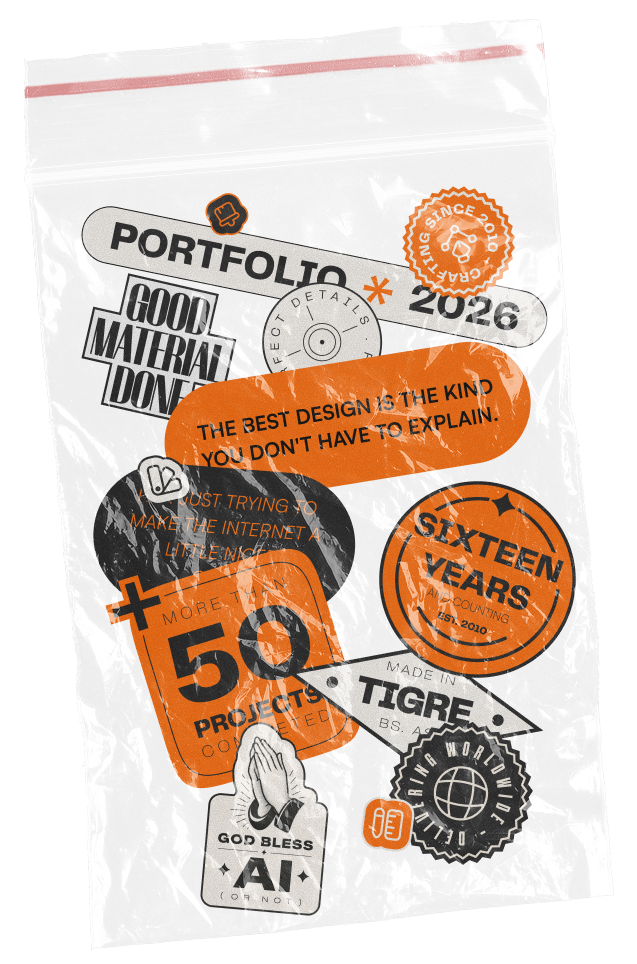
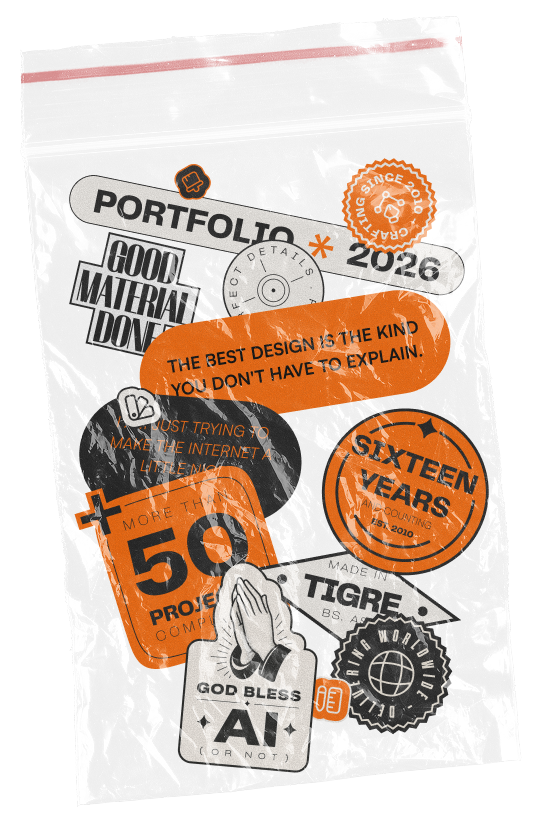
mobile update

Changed region(s): [[0.1185, 0.1832, 0.9185, 0.9463], [0.8296, 0.3053, 0.8593, 0.3358]]

diff --git a/index.html b/index.html
@@ -162,7 +162,7 @@ document.querySelector('meta[name="viewport"]').setAttribute('content','width=14
 .tt-col-md-6.d-flex-center { overflow: visible !important; }
 .desktop-testi-tag { position: absolute; bottom: -50px; left: 0; right: 0; width: auto; display: flex; flex-direction: column; align-items: center; transform: none; z-index: 10; }
 .desktop-testi-tag img { display: block; width: auto; max-width: none; height: 31px; margin-bottom: 0; transition: transform 0.7s cubic-bezier(0.25,0.46,0.45,0.94); }
-@media (max-width: 768px) { .desktop-testi-wrap { display: none !important; } #mob-testi-tag { width: auto !important; height: auto !important; transform-origin: center center !important; } }
+@media (max-width: 768px) { .desktop-testi-wrap { display: none !important; } }
 @media (min-width: 769px) { .mob-somekind-phrase { display: none !important; } }
 @media (min-width: 2560px) {
     .home-title { transform:none; }
@@ -263,8 +263,9 @@ document.querySelector('meta[name="viewport"]').setAttribute('content','width=14
     .mob-phrase-word.in-view { transform: translateY(0); }
     .mob-phrase-tags-overlay { position: absolute; top: 50%; left: 50%; transform: translate(-50%, -50%); width: 92vw; max-width: 340px; pointer-events: none; z-index: 2; }
     .mob-tag-complete { display: block; width: 100%; height: auto; opacity: 0; will-change: opacity; transition: opacity 1.2s cubic-bezier(0.25,0.46,0.45,0.94); transform: translateZ(0); -webkit-transform: translateZ(0); }
-    #mob-testi-tag { width: auto !important; height: auto !important; }
     .mob-tag-complete.in-view { opacity: 1; }
+    .mob-pill { display: block; height: 28px; width: auto; margin-bottom: 16px; opacity: 0; transform: translateY(16px); transition: opacity 1.1s cubic-bezier(0.25,0.46,0.45,0.94), transform 1.1s cubic-bezier(0.25,0.46,0.45,0.94); }
+    .mob-pill.in-view { opacity: 1; transform: translateY(0); }
     .services-btns-row { display: none !important; }
     #services .tt-row:first-of-type { display: none !important; }
     .words-container { overflow: visible !important; }
@@ -591,10 +592,10 @@ document.addEventListener('click', function(e) {
                 </div>
                 <div class="tt-section-inner tt-wrap">
                     <div class="mob-works-phrase mob-ok" style="display:none;position:relative;">
+                        <img src="./assets/img/a-few-of.svg" alt="A Few of Them" class="mob-pill" id="mob-works-pill" />
                         <div class="mob-phrase-clip"><img src="./assets/img/work-featu.svg" class="mob-phrase-word" alt="" /></div>
                         <div class="mob-phrase-clip" id="mob-works-red-clip"><img src="./assets/img/work-red.svg" class="mob-phrase-word" alt="" /></div>
                         <div class="mob-phrase-clip"><img src="./assets/img/work-work.svg" class="mob-phrase-word" alt="" /></div>
-                        <img src="./assets/img/work-tag-complete.svg" id="mob-works-tag" class="mob-tag-complete" alt="" style="position:absolute;left:50%;transform:translateX(-50%);width:auto;height:auto;pointer-events:none;z-index:2;" />
                     </div>
                     <div class="gallery">
                         <div class="card" id="frog-bazar"><a href="https://www.behance.net/gallery/157959551/Frog-Bazar-2023" target="_blank" class="stamp" data-vt-mode="fade"><img src="./assets/img/stamp/project-be.svg" alt="" /><img src="./assets/img/stamp/project-be-a.svg" class="join" alt="" /><img src="./assets/img/stamp/project-be-b.svg" class="inside" alt="" /></a><a class="media" href="work/frogbazar/" alt="frog-bazar" data-vt-mode="slide"><img class="img-base" src="./assets/home/frogbazar-b.jpg" alt="Frog Bazar" /><img class="img-hover" src="./assets/home/frogbazar.jpg" alt="" aria-hidden="true" /></a><div class="meta"><h3>Frog Bazar</h3><p>branding + website + photo</p><p>(001)</p><span class="meta-name">Frog Bazar</span><span class="meta-num">(001)</span></div></div>
@@ -696,7 +697,7 @@ document.addEventListener('click', function(e) {
                 </div>
             </div>
             <div class="mob-stickers-wrap" style="display:flex;justify-content:center;padding:40px 0;">
-                <img src="./assets/img/mob-stickers.png" alt="" style="display:block;width:340px;max-width:92vw;height:auto;" />
+                <img id="mob-stickers-img" src="./assets/img/mob-stickers.png" alt="" style="display:block;width:360px;max-width:92vw;height:auto;" />
             </div>
 
         <div id="extra-section" class="tt-section mob-no" style="position:relative;z-index:2;background:#F8F8F8;padding-top:50px !important;padding-bottom:150px !important;margin-top:0;">
@@ -734,10 +735,10 @@ document.addEventListener('click', function(e) {
                             </div>
                         </div>
                         <div class="mob-somekind-phrase" style="position:relative;display:flex;flex-direction:column;align-items:center;width:100%;gap:8px;margin-bottom:8px;">
+                            <img src="./assets/img/some-kind.svg" alt="Some Kind Words" class="mob-pill" id="mob-testi-pill" />
                             <div class="mob-phrase-clip"><img src="./assets/img/testimonials-they.svg" class="mob-phrase-word" alt="" /></div>
                             <div class="mob-phrase-clip"><img src="./assets/img/testimonials-said.svg" class="mob-phrase-word" alt="" /></div>
                             <div class="mob-phrase-clip"><img src="./assets/img/testimonials-it.svg" class="mob-phrase-word" alt="" /></div>
-                            <div style="position:absolute;top:50%;left:50%;transform:translate(-50%,-50%);pointer-events:none;z-index:2;"><img src="./assets/img/testimonials-tag-complete.svg" id="mob-testi-tag" class="mob-tag-complete" alt="" style="width:auto;height:auto;" /></div>
                         </div>
                         <div class="words-container"><div class="carousel" role="region"><div class="stage" id="stage">
                             <article class="verbatim prev" tabindex="0"><img src="./assets/img/word2.jpg" alt="" /><div><p><span>Dana Johonson</span> (Dotted 8)</p><p>"As a US-based agency, it can be tricky to find reliable international talent that aligns with our time constraints and quality expectations. Fede has been an incredible resource and a valued member of our team for many years!"</p></div></article>
@@ -1333,6 +1334,12 @@ window.addEventListener('load', () => {
             const isRetina = window.matchMedia('(min-resolution: 2dppx)').matches;
             if (deskFeatured) { gsap.set(deskFeatured, { y: '160%' }); gsap.to(deskFeatured, { y: 0, ease: 'power3.out', duration: 1.4, scrollTrigger: { trigger: '#works', start: 'top 85%', toggleActions: 'play none none none' } }); }
             if (deskWork) { gsap.set(deskWork, { y: '160%' }); gsap.to(deskWork, { y: 0, ease: 'power3.out', duration: 1.4, delay: 0.08, scrollTrigger: { trigger: '#works', start: 'top 85%', toggleActions: 'play none none none' } }); }
+            if (window.innerWidth <= 768) {
+                var mobStickersImg = document.getElementById('mob-stickers-img');
+                if (mobStickersImg) {
+                    gsap.fromTo(mobStickersImg, { y: -12, rotation: -2 }, { y: 12, rotation: 2, ease: 'none', scrollTrigger: { trigger: mobStickersImg, start: 'top bottom', end: 'bottom top', scrub: 1.2 } });
+                }
+            }
             if (isRetina) {
                 var extraSec = document.getElementById('extra-section');
                 if (extraSec) { extraSec.style.setProperty('padding-top', '0px', 'important'); extraSec.style.setProperty('margin-top', '-75px', 'important'); }
@@ -1627,19 +1634,12 @@ if (window.innerWidth <= 768) {
     if (serviceItems.length) { var servicesObserver = new IntersectionObserver(function(entries) { entries.forEach(function(entry) { if (entry.isIntersecting) { var idx = Array.from(serviceItems).indexOf(entry.target); setTimeout(function() { entry.target.classList.add('in-view'); }, idx * 80); servicesObserver.unobserve(entry.target); } }); }, { threshold: 0.1 }); serviceItems.forEach(function(item) { servicesObserver.observe(item); }); }
     var connectBtn = document.querySelector('.services-btns-connect');
     if (connectBtn) { new IntersectionObserver(function(entries) { entries.forEach(function(entry) { if (entry.isIntersecting) { entry.target.classList.add('in-view'); } }); }, { threshold: 0.3 }).observe(connectBtn); }
-    var testiTag = document.getElementById('mob-testi-tag');
-    if (testiTag) { var testiTagObserver = new IntersectionObserver(function(entries) { entries.forEach(function(entry) { if (entry.isIntersecting) { testiTag.classList.add('in-view'); testiTagObserver.disconnect(); } }); }, { threshold: 0.3 }); testiTagObserver.observe(testiTag); window.addEventListener('scroll', function() { var rect = testiTag.getBoundingClientRect(); testiTag.style.transform = 'scale(1.2) translateY(' + ((rect.top + rect.height / 2 - window.innerHeight / 2) * 0.06) + 'px)'; }, { passive: true }); }
     var someKindClips = document.querySelectorAll('.mob-somekind-phrase .mob-phrase-clip');
     if (someKindClips.length) { var someKindObserver = new IntersectionObserver(function(entries) { entries.forEach(function(entry) { if (entry.isIntersecting) { var word = entry.target.querySelector('.mob-phrase-word'); if (word) word.classList.add('in-view'); someKindObserver.unobserve(entry.target); } }); }, { threshold: 0.0 }); someKindClips.forEach(function(clip) { someKindObserver.observe(clip); }); }
     var worksClips = document.querySelectorAll('.mob-works-phrase .mob-phrase-clip');
     if (worksClips.length) { var worksObserver = new IntersectionObserver(function(entries) { entries.forEach(function(entry) { if (entry.isIntersecting) { var word = entry.target.querySelector('.mob-phrase-word'); if (word) word.classList.add('in-view'); worksObserver.unobserve(entry.target); } }); }, { threshold: 0.0 }); worksClips.forEach(function(clip) { worksObserver.observe(clip); }); }
-    var worksTag = document.getElementById('mob-works-tag');
-    if (worksTag) {
-        function positionWorksTag() { var redClip = document.getElementById('mob-works-red-clip'), phrase = document.querySelector('.mob-works-phrase'); if (!redClip || !phrase) return; var phraseTop = phrase.getBoundingClientRect().top + window.scrollY, redTop = redClip.getBoundingClientRect().top + window.scrollY; worksTag.style.top = (redTop + redClip.offsetHeight / 2 - phraseTop - worksTag.offsetHeight / 2) + 'px'; }
-        setTimeout(positionWorksTag, 200); window.addEventListener('resize', positionWorksTag);
-        var worksTagObserver = new IntersectionObserver(function(entries) { entries.forEach(function(entry) { if (entry.isIntersecting) { worksTag.classList.add('in-view'); worksTagObserver.disconnect(); } }); }, { threshold: 0.3 }); worksTagObserver.observe(worksTag);
-        window.addEventListener('scroll', function() { var rect = worksTag.getBoundingClientRect(); worksTag.style.transform = 'translateX(-50%) translateY(' + ((rect.top + rect.height / 2 - window.innerHeight / 2) * 0.06) + 'px)'; }, { passive: true });
-    }
+    var mobPills = document.querySelectorAll('.mob-pill');
+    if (mobPills.length) { var mobPillObserver = new IntersectionObserver(function(entries) { entries.forEach(function(entry) { if (entry.isIntersecting) { entry.target.classList.add('in-view'); mobPillObserver.unobserve(entry.target); } }); }, { threshold: 0.3 }); mobPills.forEach(function(pill) { mobPillObserver.observe(pill); }); }
     var testiImgs = document.querySelectorAll('.mobile-testimonials img');
     if (testiImgs.length) { var testiObserver = new IntersectionObserver(function(entries) { entries.forEach(function(entry) { if (entry.isIntersecting) { var idx = Array.from(testiImgs).indexOf(entry.target); setTimeout(function() { entry.target.classList.add('in-view'); }, idx * 100); testiObserver.unobserve(entry.target); } }); }, { threshold: 0.1 }); testiImgs.forEach(function(img) { testiObserver.observe(img); }); }
     var footerClips = document.querySelectorAll('.mob-footer-clip');

diff --git a/assets/css/work.css b/assets/css/work.css
@@ -549,13 +549,13 @@ body.tt-boxed.work.ui-ux .tt-wrap .tt-col-md-12 .mobs-details {
 }
 body.tt-boxed.work.ui-ux .tt-wrap .tt-col-md-6 .mobs.iphone {
   margin-left: -60px;
-  transition: all 0.6s cubic-bezier(0.34, 1.56, 0.64, 1);
+  transition: all 0.7s cubic-bezier(0.25,0.46,0.45,0.94);
 }
 body.tt-boxed.work.ui-ux .tt-wrap .tt-col-md-6 .mobs.iphone:hover {
   margin-left: -120px;
 }
 body.tt-boxed.work.ui-ux .tt-wrap .tt-col-md-6 .mobs.iphone img {
-  transition: all 0.6s cubic-bezier(0.34, 1.56, 0.64, 1);
+  transition: all 0.7s cubic-bezier(0.25,0.46,0.45,0.94);
 }
 body.tt-boxed.work.ui-ux .tt-wrap .tt-col-md-6 .mobs.iphone:hover img:nth-child(1) {
   width: 565px;
@@ -570,14 +570,14 @@ body.tt-boxed.work.ui-ux .tt-wrap .tt-col-md-6 .mobs.iphone:hover img:nth-child(
 body.tt-boxed.work.ui-ux .tt-wrap .tt-col-md-12 .mobs.ipad {
   margin-left: 0;
   height: 874px;
-  transition: all 0.6s cubic-bezier(0.34, 1.56, 0.64, 1);
+  transition: all 0.7s cubic-bezier(0.25,0.46,0.45,0.94);
 }
 body.tt-boxed.work.ui-ux .tt-wrap .tt-col-md-12 .mobs.ipad img {
   width: 811px;
   position: absolute;
   padding-left: 0;
   padding-right: 0;
-  transition: all 0.6s cubic-bezier(0.34, 1.56, 0.64, 1);
+  transition: all 0.7s cubic-bezier(0.25,0.46,0.45,0.94);
 }
 body.tt-boxed.work.ui-ux .tt-wrap .tt-col-md-12 .mobs.ipad img:nth-child(1) { margin-left: -7%; margin-top: -3%; }
 body.tt-boxed.work.ui-ux .tt-wrap .tt-col-md-12 .mobs.ipad img:nth-child(2) { margin-left: 36%; margin-top: 9%; }

diff --git a/work/ui-ux/index.html b/work/ui-ux/index.html
@@ -43,7 +43,7 @@
       body.ui-ux .title-work .work-header-inner { width:100%!important; display:flex!important; flex-direction:column!important; align-items:center!important; justify-content:center!important; text-align:center!important; padding:60px 0 40px!important; }
       body.ui-ux .work-title { width:100%!important; max-width:100%!important; display:flex!important; flex-direction:column!important; align-items:center!important; text-align:center!important; }
       body.ui-ux .work-title .desc { max-width:650px!important; width:650px!important; margin-left:auto!important; margin-right:auto!important; box-sizing:border-box!important; text-align:center!important; }
-      body.ui-ux .tt-section.padding-bottom-xlg-150 { padding-top:0!important; padding-bottom:300px!important; }
+      body.ui-ux .tt-section.padding-bottom-xlg-150 { padding-top:0!important; padding-bottom:100px!important; }
       body.ui-ux .work-tags { display:flex; justify-content:center; gap:60px; margin-top:50px; margin-bottom:10px; }
       body.ui-ux .work-tags span { font-family:'PP Telegraf',sans-serif; font-size:14px; line-height:1.5; letter-spacing:0.5em; text-transform:uppercase; color:inherit; }
       body.ui-ux .work-title .order { margin-top:50px; }
